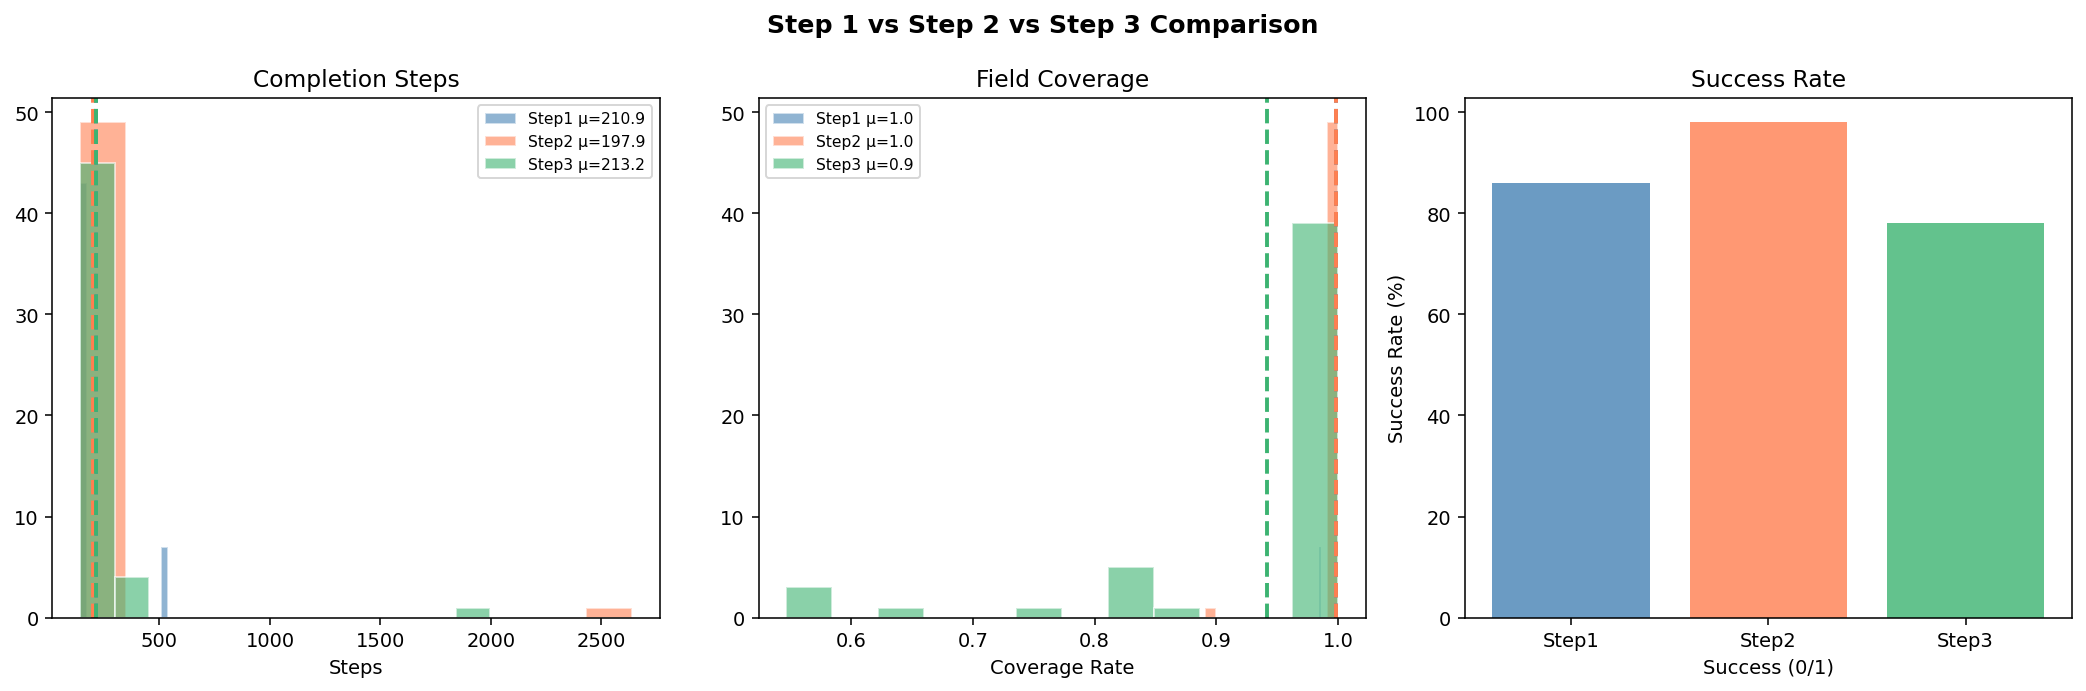
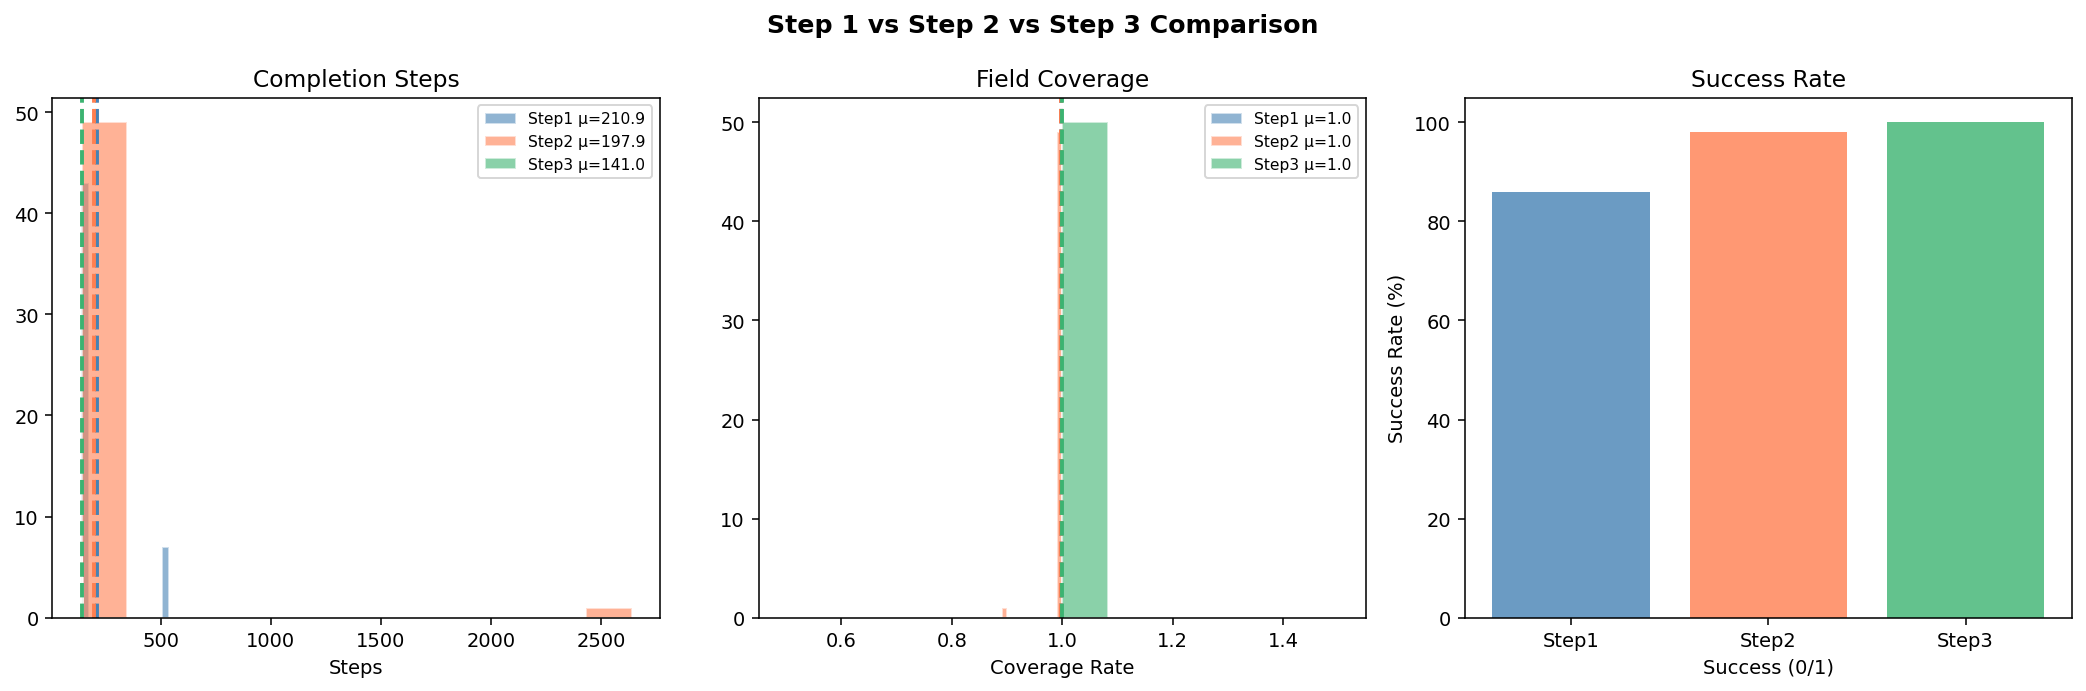
거리 인식 상위 관측으로 Step 3 성능 개선

diff --git a/env/hierarchical/high_level_env.py b/env/hierarchical/high_level_env.py
@@ -32,8 +32,9 @@ class HighLevelFarmEnv(gym.Env):
         self.n_lanes: int = len(self.lane_cols)
         self.max_lane_visits: int = max_lane_visits or self.n_lanes * 3
 
+        # obs = [lane_done_rates(n_lanes), normalized_distances(n_lanes)]
         self.observation_space = spaces.Box(
-            low=0.0, high=1.0, shape=(self.n_lanes,), dtype=np.float32
+            low=0.0, high=1.0, shape=(self.n_lanes * 2,), dtype=np.float32
         )
         self.action_space = spaces.Discrete(self.n_lanes)
         self._lane_visits: int = 0
@@ -44,17 +45,26 @@ class HighLevelFarmEnv(gym.Env):
         return self._get_hl_obs(), {}
 
     def _get_hl_obs(self) -> np.ndarray:
-        """Return fraction of adjacent crops in DONE_STATES per lane."""
-        obs = np.zeros(self.n_lanes, dtype=np.float32)
+        """
+        Returns 2*n_lanes observation:
+          [lane0_done%, ..., lane4_done%,        -- completion rates
+           dist_to_lane0, ..., dist_to_lane4]    -- normalised distances
+        Nearest unfinished lane will have low distance AND low done%.
+        """
+        completion = np.zeros(self.n_lanes, dtype=np.float32)
+        distances  = np.zeros(self.n_lanes, dtype=np.float32)
+        agent_col  = float(self.inner.agent_pos[1])
+        max_dist   = float(self.inner.W - 1)
+
         for i, lane_col in enumerate(self.lane_cols):
             crops = self.inner._adjacent_lane_crops(lane_col)
             if crops:
-                done = sum(
-                    1 for (r, c) in crops
-                    if self.inner.crop_states[r, c] in DONE_STATES
-                )
-                obs[i] = done / len(crops)
-        return obs
+                done = sum(1 for (r, c) in crops
+                           if self.inner.crop_states[r, c] in DONE_STATES)
+                completion[i] = done / len(crops)
+            distances[i] = abs(agent_col - lane_col) / max_dist
+
+        return np.concatenate([completion, distances])
 
     def _is_lane_already_done(self, lane_col: int) -> bool:
         """True if all crops adjacent to lane_col are already in DONE_STATES."""

diff --git a/tests/test_high_level_env.py b/tests/test_high_level_env.py
@@ -21,13 +21,24 @@ def make_env(seed=0):
 def test_obs_shape():
     env = make_env()
     obs, _ = env.reset(seed=0)
-    assert obs.shape == (env.n_lanes,), f"Expected ({env.n_lanes},), got {obs.shape}"
+    # obs = [completion(n_lanes), distances(n_lanes)]
+    assert obs.shape == (env.n_lanes * 2,), f"Expected ({env.n_lanes * 2},), got {obs.shape}"
 
 
-def test_obs_all_zero_at_start():
+def test_obs_completion_all_zero_at_start():
     env = make_env()
     obs, _ = env.reset(seed=0)
-    assert np.all(obs == 0.0), f"Expected all zeros, got {obs}"
+    completion = obs[:env.n_lanes]
+    assert np.all(completion == 0.0), f"Completion should be 0 at start, got {completion}"
+
+
+def test_obs_distances_nonzero_at_start():
+    """Agent starts at col 1 (lane 0), so distances to other lanes must be > 0."""
+    env = make_env()
+    obs, _ = env.reset(seed=0)
+    distances = obs[env.n_lanes:]
+    assert distances[0] == 0.0, "Distance to lane 0 (col 1) should be 0 at start"
+    assert np.any(distances[1:] > 0.0), "Some lanes should be farther away"
 
 
 def test_action_space():
@@ -45,7 +56,7 @@ def test_step_returns_valid_obs():
     env = make_env()
     obs, _ = env.reset(seed=0)
     obs2, reward, terminated, truncated, info = env.step(0)
-    assert obs2.shape == (env.n_lanes,)
+    assert obs2.shape == (env.n_lanes * 2,)
     assert obs2.min() >= 0.0 and obs2.max() <= 1.0
 
 

diff --git a/train_hierarchical.py b/train_hierarchical.py
@@ -47,13 +47,13 @@ def make_lane_env(seed=0):
 
 def train_low_level(total_timesteps=500_000, save_path="models/lane_executor"):
     os.makedirs("models", exist_ok=True)
-    vec_env = DummyVecEnv([make_lane_env(seed=i) for i in range(4)])
+    vec_env = DummyVecEnv([make_lane_env(seed=i) for i in range(16)])
 
     model = MaskablePPO(
         policy="MlpPolicy",
         env=vec_env,
-        n_steps=2048,
-        batch_size=64,
+        n_steps=512,
+        batch_size=256,
         n_epochs=10,
         learning_rate=3e-4,
         gamma=0.99,
@@ -79,13 +79,14 @@ def make_hl_env(low_level_model, seed=0):
     return _init
 
 
-def train_high_level(low_level_model, total_timesteps=200_000, save_path="models/high_level"):
+def train_high_level(low_level_model, total_timesteps=50_000, save_path="models/high_level"):
+    # HL env is slow (each step runs full LL rollout), keep n_envs small
     vec_env = DummyVecEnv([make_hl_env(low_level_model, seed=i) for i in range(4)])
 
     model = PPO(
         policy="MlpPolicy",
         env=vec_env,
-        n_steps=512,
+        n_steps=128,
         batch_size=64,
         n_epochs=10,
         learning_rate=3e-4,

diff --git a/train_step3.py b/train_step3.py
@@ -49,13 +49,13 @@ def make_lane_env(seed=0):
 
 def train_low_level(total_timesteps=700_000, save_path="models/lane_executor_s3"):
     os.makedirs("models", exist_ok=True)
-    vec_env = DummyVecEnv([make_lane_env(seed=i) for i in range(4)])
+    vec_env = DummyVecEnv([make_lane_env(seed=i) for i in range(16)])
 
     model = MaskablePPO(
         policy="MlpPolicy",
         env=vec_env,
-        n_steps=2048,
-        batch_size=64,
+        n_steps=512,
+        batch_size=256,
         n_epochs=10,
         learning_rate=3e-4,
         gamma=0.99,
@@ -81,8 +81,8 @@ def make_hl_env(low_level_model, seed=0):
     return _init
 
 
-def train_high_level_dqn(low_level_model, total_timesteps=300_000, save_path="models/high_level_s3"):
-    # DQN은 단일 환경 (VecEnv 미지원 — DummyVecEnv(1) 사용)
+def train_high_level_dqn(low_level_model, total_timesteps=30_000, save_path="models/high_level_s3"):
+    # HL env slow (each step = full LL rollout); DQN single env only
     vec_env = DummyVecEnv([make_hl_env(low_level_model, seed=0)])
 
     model = DQN(